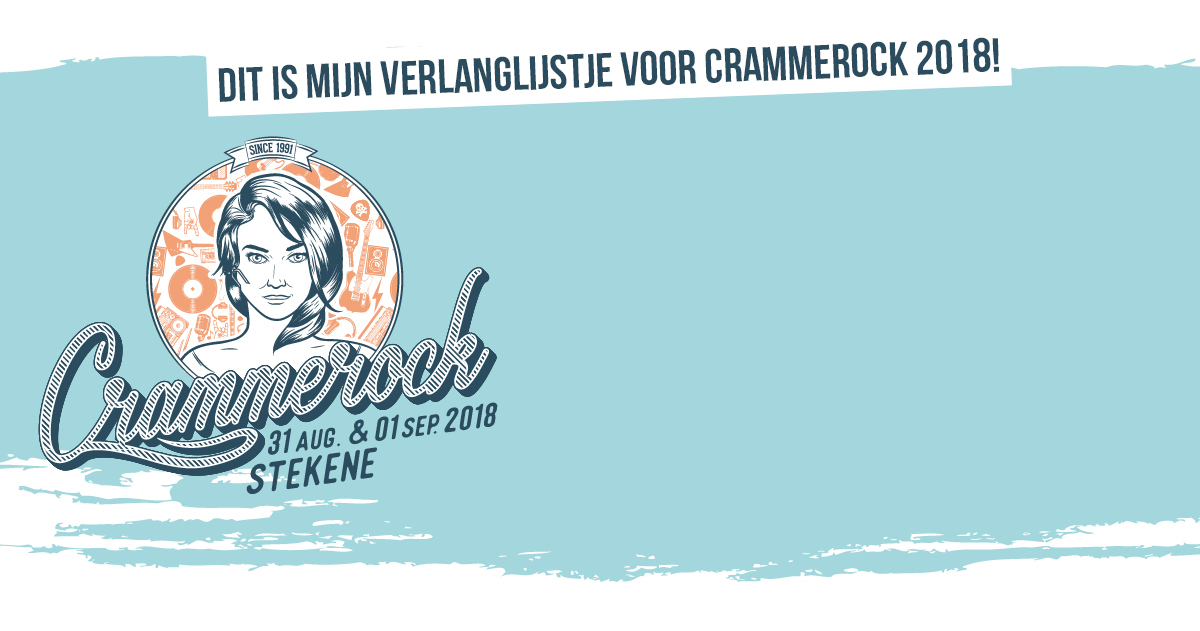
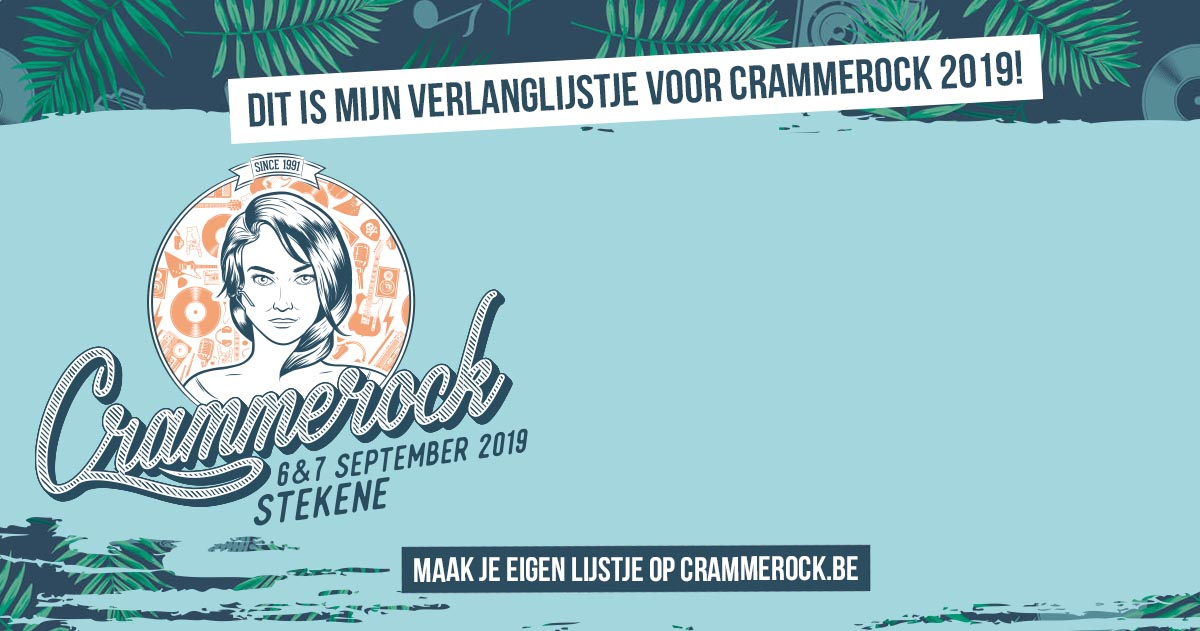
:sparkles: Lijstjestijd 2019

diff --git a/src/templates/mijnlijstje.js b/src/templates/mijnlijstje.js
@@ -44,6 +44,7 @@ const Lijstje = ({ listId }: { listId: string }) => {
         subTitle="Dat ziet er goed uit!"
         cta="Maak je eigen lijstje!"
         link="/lijstjestijd"
+        video="https://videos.ctfassets.net/nwp1ppgri1eh/3aXWeGRxgIcUCqu2SYwKQM/c6b165050c1ade94dc25dc9bfb6f9adb/Crammevideozonderzwart.mp4"
         image="https://images.ctfassets.net/nwp1ppgri1eh/5wdAe2GkfYSOOIMM4KIo2i/cf4a8d070a0d1ad03711cf35b8bf8232/large_4GXYu.jpg"
       />
       <img alt="Jouw lijstje!" width={1200} height={650} src={`https://firebasestorage.googleapis.com/v0/b/crammerock-1c990.appspot.com/o/lijstjes19%2F${listId}.png?alt=media&token=1cd92339-631d-416e-a741-d30e44d75a20`} />

diff --git a/src/pages/lijstjestijd.js b/src/pages/lijstjestijd.js
@@ -99,6 +99,8 @@ const Lijstjestijd = () => {
       <Header
         title="Lijstjestijd!"
         image="https://images.ctfassets.net/nwp1ppgri1eh/5wdAe2GkfYSOOIMM4KIo2i/cf4a8d070a0d1ad03711cf35b8bf8232/large_4GXYu.jpg"
+        subTitle="Geef jouw top 3 voor Crammerock 2019"
+        video="https://videos.ctfassets.net/nwp1ppgri1eh/3aXWeGRxgIcUCqu2SYwKQM/c6b165050c1ade94dc25dc9bfb6f9adb/Crammevideozonderzwart.mp4"
       />
       <Helmet title={`Lijstjestijd | ${config.siteName}`} />
       <div className={styles.row}>
